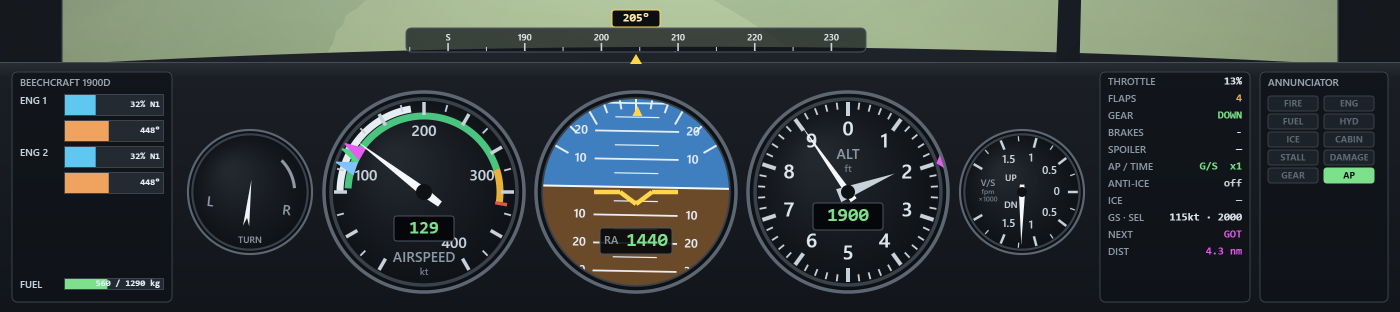
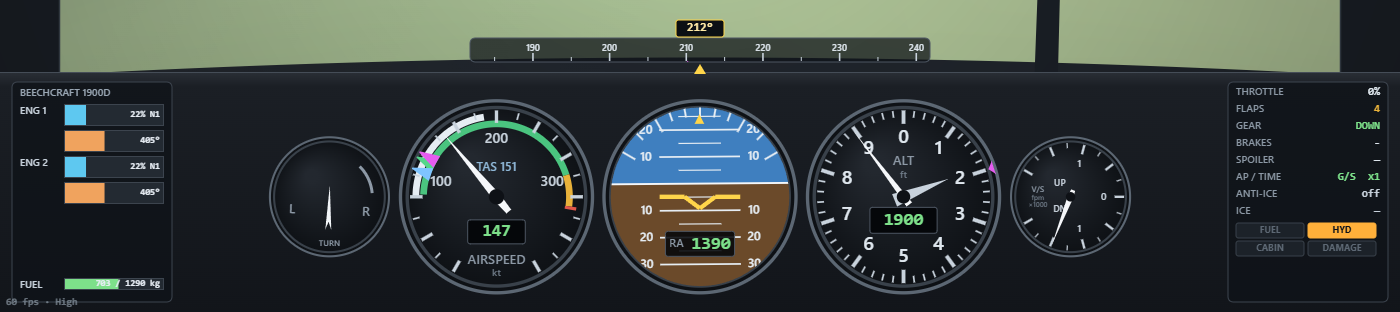
World Aviation: the terminal signs at the airports whose sign style had no typeface (a hash over 2^31 went negative); the wing engines' pylons sit on the cowling, end just past the exhaust and stay inside the wing; the annunciator column gone, its four lights no other gauge shows (FUEL, HYD, CABIN, 

diff --git a/world-aviation/ui/instruments.js b/world-aviation/ui/instruments.js
@@ -42,12 +42,12 @@ const Instruments = {
     ctx.lineWidth = 1;
     ctx.beginPath(); ctx.moveTo(0, top + 0.5); ctx.lineTo(w, top + 0.5); ctx.stroke();
 
-    // blocks: engines on the left, configuration and warnings on the right,
-    // the round gauges in a row in the space between
+    // blocks: engines on the left, the configuration (with the caution lights under it) on the
+    // right, the round gauges in a row in the space between
     const y = top + panelH * 0.52;
     if (!compact) {
-      const engW = 160, warnW = 128, cfgW = 150;
-      const warnX = w - 12 - warnW, cfgX = warnX - 10 - cfgW;
+      const engW = 160, cfgW = 160;
+      const cfgX = w - 12 - cfgW;
       const c0 = 12 + engW + 10, c1 = cfgX - 10;
       const cx = (c0 + c1) / 2;
       const r = Math.min(panelH * 0.4, (c1 - c0) / 8.96, 100);
@@ -58,7 +58,6 @@ const Instruments = {
       this.vsi(ctx, cx + 3.86 * r, y, r * 0.62, fl);
       this.engines(ctx, 12, top + 10, engW, panelH - 20, fl, sys);
       this.config(ctx, cfgX, top + 10, cfgW, panelH - 20, fl, sys);
-      this.warnings(ctx, warnX, top + 10, warnW, panelH - 20, sys, fl);
       this.hsi(ctx, cx, top - 22, Math.min(w * 0.5, 460), 24, fl, sys);
     } else if (Cockpit.portrait(w, h)) {
       // a phone held upright: the configuration on one line, the four gauges two by two, and
@@ -648,7 +647,9 @@ const Instruments = {
     ctx.fillStyle = 'rgba(14,18,24,0.72)';
     roundRect(ctx, x, y, w, h, 6); ctx.fill();
     ctx.strokeStyle = '#3c444e'; ctx.stroke();
-    const step = phone ? 22 : 17;
+    // (on a computer the caution lights follow the lines; in a low panel the lines close up)
+    const step = phone ? 22 : Math.min(17, (h - 8 - this.CAUTION_H - 22) / 7);
+    const lightsY = y + 10 + 7 * step + 12;
     const line = (i, label, value, color) => {
       const yy = y + (phone ? 14 : 10) + i * step;
       if (yy > y + h - 8) return;
@@ -678,50 +679,35 @@ const Instruments = {
     line(6, 'ANTI-ICE', sys && sys.antiIce ? 'ON' : 'off', sys && sys.antiIce ? '#7fc4ff' : '#c8d2dc');
     line(7, 'ICE', fl.env.iceAmount > 0.02 ? Math.round(fl.env.iceAmount * 100) + '%' : '—',
       fl.env.iceAmount > 0.2 ? '#ff7a5c' : fl.env.iceAmount > 0.02 ? '#e8b13a' : '#c8d2dc');
-    if (h > 150) {
-      line(8, 'GS · SEL', Units.spd(fl.groundSpeedKt()).replace(' ', '') + ' · ' + Units.alt(fl.ap.alt).replace(/ (ft|m)$/, ''), '#dfe7ee');
-      line(9, 'NEXT', fl.targetName(), '#e65cf0');
-      line(10, 'DIST', fl.st.onGround ? '-' : Units.dist(fl.targetDistNm(), 1), '#e65cf0');
-    }
+    if (sys) this.cautions(ctx, x + 8, lightsY, w - 16, sys);
     ctx.restore();
   },
 
-  // ---------- warning lights ----------
-  warnings(ctx, x, y, w, h, sys, fl) {
-    ctx.save();
-    ctx.fillStyle = 'rgba(14,18,24,0.72)';
-    roundRect(ctx, x, y, w, h, 6); ctx.fill();
-    ctx.strokeStyle = '#3c444e'; ctx.stroke();
-    ctx.fillStyle = '#9aa7b4';
-    ctx.font = '600 10px system-ui, sans-serif';
-    ctx.textAlign = 'left'; ctx.textBaseline = 'top';
-    ctx.fillText('ANNUNCIATOR', x + 8, y + 6);
+  // ---------- the caution lights ----------
+  // Under the configuration lines, two by two: only what no other instrument shows. A fire and
+  // a failed engine are on the engine gauges (FIRE, FAIL), the ice, the gear and the autopilot
+  // are lines of the configuration, a stall is the STALL warning on the view.
+  CAUTION_H: 33,
+  cautions(ctx, x, y, w, sys) {
+    const W = sys.warnings;
     const lights = [
-      ['FIRE', sys.warnings.fire, '#ff4d3d'],
-      ['ENG', sys.warnings.engine, '#ffb03a'],
-      ['FUEL', sys.warnings.fuelLeak || sys.warnings.fuelLow, '#ffb03a'],
-      ['HYD', sys.warnings.hydraulic, '#ffb03a'],
-      ['ICE', sys.warnings.ice, '#7fc4ff'],
-      ['CABIN', sys.warnings.cabin, '#ffb03a'],
-      ['STALL', sys.warnings.stall, '#ff4d3d'],
-      ['DAMAGE', sys.warnings.damage, '#ffb03a'],
-      ['GEAR', sys.warnings.gear || (fl.st.gear < 1 && fl.st.gear > 0), '#ffb03a'],
-      ['AP', fl.ap.on, '#7de08a']
+      ['FUEL', W.fuelLeak || W.fuelLow],
+      ['HYD', W.hydraulic],
+      ['CABIN', W.cabin],
+      ['DAMAGE', W.damage]
     ];
-    const cols = 2, cw = (w - 16) / cols, ch = 15;
-    for (let i = 0; i < lights.length; i++) {
-      const [label, on, color] = lights[i];
-      const lx = x + 8 + (i % cols) * cw, ly = y + 24 + Math.floor(i / cols) * (ch + 3);
-      ctx.fillStyle = on ? color : '#1c2229';
-      roundRect(ctx, lx, ly, cw - 6, ch, 3); ctx.fill();
-      ctx.strokeStyle = on ? color : '#39414a';
+    const cw = w / 2, ch = 15;
+    ctx.font = '700 9px system-ui, sans-serif';
+    ctx.textAlign = 'center'; ctx.textBaseline = 'middle';
+    lights.forEach(([label, on], i) => {
+      const lx = x + (i % 2) * cw, ly = y + Math.floor(i / 2) * (ch + 3);
+      ctx.fillStyle = on ? '#ffb03a' : '#1c2229';
+      roundRect(ctx, lx, ly, cw - 4, ch, 3); ctx.fill();
+      ctx.strokeStyle = on ? '#ffb03a' : '#39414a';
       ctx.stroke();
       ctx.fillStyle = on ? '#10141a' : '#5d6874';
-      ctx.font = '700 9px system-ui, sans-serif';
-      ctx.textAlign = 'center'; ctx.textBaseline = 'middle';
-      ctx.fillText(label, lx + (cw - 6) / 2, ly + ch / 2 + 0.5);
-    }
-    ctx.restore();
+      ctx.fillText(label, lx + (cw - 4) / 2, ly + ch / 2 + 0.5);
+    });
   }
 };
 

diff --git a/world-aviation/render/airport3d.js b/world-aviation/render/airport3d.js
@@ -1036,15 +1036,17 @@ function makeRunwayCanvas(a, ch) {
 const SIGN_FONTS = ['Arial, sans-serif', '"Trebuchet MS", sans-serif', 'Verdana, sans-serif', 'Georgia, serif',
   'Tahoma, sans-serif', '"Segoe UI", sans-serif', '"Gill Sans", "Gill Sans MT", Calibri, sans-serif', '"Century Gothic", Futura, sans-serif'];
 function signStyle(a, id) {
+  // (unsigned shifts: `>>` turned a hash over 2^31 negative, the index too, so there was no
+  // typeface and the canvas fell back to 10 px text — blank signs at those airports)
   const h = hashStr(a.id + 'signs');
   const hsl = {};
   new THREE.Color(id.color).getHSL(hsl);
-  const hue = (hsl.h + ((h % 7) - 3) * 0.012 + 1) % 1, sat = clamp(hsl.s * (0.8 + (h >> 3) % 5 * 0.08), 0.25, 0.9);
-  const light = clamp(0.24 + ((h >> 6) % 6) * 0.03, 0.2, 0.42);
+  const hue = (hsl.h + ((h % 7) - 3) * 0.012 + 1) % 1, sat = clamp(hsl.s * (0.8 + (h >>> 3) % 5 * 0.08), 0.25, 0.9);
+  const light = clamp(0.24 + ((h >>> 6) % 6) * 0.03, 0.2, 0.42);
   const css = (l) => '#' + new THREE.Color().setHSL(hue, sat, l).getHexString();
   return {
-    font: SIGN_FONTS[(h >> 9) % SIGN_FONTS.length], weight: ['700', '800', '900'][(h >> 12) % 3],
-    bg: css(light), dark: css(light * 0.6), fg: (h >> 14) % 3 ? '#ffffff' : '#ffe9a8'
+    font: SIGN_FONTS[(h >>> 9) % SIGN_FONTS.length], weight: ['700', '800', '900'][(h >>> 12) % 3],
+    bg: css(light), dark: css(light * 0.6), fg: (h >>> 14) % 3 ? '#ffffff' : '#ffe9a8'
   };
 }
 

diff --git a/world-aviation/render/models.js b/world-aviation/render/models.js
@@ -164,8 +164,15 @@ const AircraftModels = {
         const n = jetNacelle(dia, dia * (look.engines === 'wing4' ? 2.0 : 1.75), eng, dark, paint, look.flatNacelles);
         n.position.set(side * spanAt(f), ny, nz);
         g.add(n);
-        const py = new THREE.Mesh(new THREE.BoxGeometry(dia * 0.14, dia * 0.5, dia * 1.6), metal);
-        py.position.set(side * spanAt(f), ny + dia * 0.44, nz - dia * 0.65);
+        // the pylon sits on top of the cowling (its foot just inside the cowl, which narrows to
+        // 0.42 of the fan at the back), from near the intake to a little past the exhaust: lower,
+        // it hung into the exhaust and showed as a box through the back of the engine
+        // (its top at the wing's middle: a big fan pulled up to the wing put it through the top
+        // of the wing)
+        const foot = ny + dia * ((look.flatNacelles ? 0.86 : 1) * 0.42 - 0.03);
+        const head = Math.max(foot + dia * 0.12, Math.min(ny + dia * 0.72, yAt(f)));
+        const py = new THREE.Mesh(new THREE.BoxGeometry(dia * 0.14, head - foot, dia * 1.35), metal);
+        py.position.set(side * spanAt(f), (head + foot) / 2, nz - dia * 0.575);
         g.add(py);
       }
     } else if (look.engines === 'rear2') {

diff --git a/world-aviation/index.html b/world-aviation/index.html
@@ -133,15 +133,15 @@
 <script src="art/landmarks.js?v=2"></script>
 <script src="art/emblems.js?v=1"></script>
 <script src="art/regionmaps.js?v=2"></script>
-<script src="render/models.js?v=10"></script>
+<script src="render/models.js?v=11"></script>
 <script src="render/preview3d.js?v=2"></script>
-<script src="render/airport3d.js?v=12"></script>
+<script src="render/airport3d.js?v=13"></script>
 <script src="render/apron3d.js?v=5"></script>
 <script src="render/landside3d.js?v=3"></script>
 <script src="render/lights3d.js?v=1"></script>
 <script src="render/cinematic.js?v=1"></script>
 <script src="render/scene3d.js?v=18"></script>
-<script src="ui/instruments.js?v=13"></script>
+<script src="ui/instruments.js?v=14"></script>
 <script src="ui/cockpit.js?v=8"></script>
 <script src="ui/hud.js?v=26"></script>
 <script src="ui/cabin.js?v=2"></script>

diff --git a/world-aviation/README_RU.md b/world-aviation/README_RU.md
@@ -46,7 +46,7 @@
 
 ![Приборная панель на заходе](docs/panel.png)
 
-Панель на экране компьютера в 4 милях от Гётеборга на заходе: шасси и закрылки выпущены, автопилот ведёт по глиссаде. Слева направо: двигатели, указатель поворота, указатель скорости, авиагоризонт, высотомер, вариометр, блок конфигурации и табло сигнализации, над ними — шкала курса. Надписи на приборах английские, как в настоящей кабине. Панель остаётся на экране с любой камеры. На телефоне четыре главных прибора крупнее (если держать телефон вертикально — по два в ряд), а в блоке конфигурации остаются только закрылки, шасси, автопилот и обледенение (остальное подсвечивается на кнопках); если держать телефон горизонтально, вертикальная скорость показывается числом рядом с высотомером.
+Панель на экране компьютера в 4 милях от Гётеборга на заходе: шасси и закрылки выпущены, автопилот ведёт по глиссаде. Слева направо: двигатели, указатель поворота, указатель скорости, авиагоризонт, высотомер, вариометр и блок конфигурации с сигнальными лампами, над ними — шкала курса. Надписи на приборах английские, как в настоящей кабине. Панель остаётся на экране с любой камеры. На телефоне четыре главных прибора крупнее (если держать телефон вертикально — по два в ряд), а в блоке конфигурации остаются только закрылки, шасси, автопилот и обледенение (остальное подсвечивается на кнопках); если держать телефон горизонтально, вертикальная скорость показывается числом рядом с высотомером.
 
 | Прибор | Что показывает и чем помогает |
 |---|---|
@@ -57,8 +57,7 @@
 | <img src="docs/turn.png" width="140" alt="Указатель поворота"> | **Указатель поворота** (TURN) — маленький самолёт наклоняется тем сильнее, чем быстрее меняется курс: стоит прямо — летите прямо, чем больше наклон — тем круче разворот. На посадочной прямой держите его ровно, тогда самолёт не будет медленно уходить с осевой. |
 | <img src="docs/heading.png" width="260" alt="Шкала курса"> | **Шкала курса** над панелью: жёлтый треугольник и окошко — ваш курс. **Розовый треугольник** под шкалой — направление на следующую точку маршрута (на заходе — на полосу): доверните, пока он не встанет под жёлтый, и вы летите прямо на неё. В режиме HDG **голубая метка** сверху — курс, на который разворачивает автопилот (клавиши **;** и **'**). |
 | <img src="docs/engines.png" width="150" alt="Приборы двигателей"> | **Двигатели** — по две полосы на двигатель: **N1** (обороты вентилятора в %, то есть тяга; малый газ — около 22 %) и **EGT** (температура выходящих газов). При запуске следите, как растут N1 и EGT; в полёте полоса сразу пишет **FIRE** (пожар), **FAIL** (отказ) или **START** (запуск), и видно, с каким двигателем беда. Внизу — **остаток топлива** в килограммах из полных баков. |
-| <img src="docs/configuration.png" width="150" alt="Блок конфигурации"> | **Конфигурация** — всё, что вы выставили, словами: **THROTTLE** — режим двигателей в %; **FLAPS** — закрылки (жёлтые в посадочных положениях, «1>3», пока выпускаются); **GEAR** — шасси (зелёное DOWN — выпущено, жёлтое — в движении); **BRAKES** — тормоза (PARK — стояночный тормоз); **SPOILER** — интерцепторы (красное OUT — выпущены); **AP / TIME** — режим автопилота (NAV — по маршруту, HDG — по курсу, G/S — по глиссаде) и ускорение времени; **ANTI-ICE** — противообледенительная система; **ICE** — лёд на крыле в %; **GS · SEL** — путевая скорость и заданная высота автопилота; **NEXT** и **DIST** — следующая точка маршрута и расстояние до неё. Перед посадкой одного взгляда хватает: шасси DOWN зелёным, закрылки выпущены, интерцепторы убраны, стояночный тормоз снят. |
-| <img src="docs/annunciator.png" width="150" alt="Табло сигнализации"> | **Табло сигнализации** (ANNUNCIATOR): красные **FIRE** (пожар) и **STALL** (сваливание); жёлтые **ENG** (двигатель), **FUEL** (топливо), **HYD** (гидравлика), **CABIN** (давление в кабине), **DAMAGE** (повреждения) и **GEAR** (шасси, в том числе пока оно выпускается или убирается); голубое **ICE** (обледенение) и зелёное **AP**, пока летит автопилот. Когда звучит сигнал, одного взгляда хватает, чтобы понять, что случилось; тут же на экране открывается чек-лист QRH (см. «Отказы и аварийные ситуации»). На снимке — пожар двигателя. |
+| <img src="docs/configuration.png" width="150" alt="Блок конфигурации"> | **Конфигурация** — всё, что вы выставили, словами: **THROTTLE** — режим двигателей в %; **FLAPS** — закрылки (жёлтые в посадочных положениях, «1>3», пока выпускаются); **GEAR** — шасси (зелёное DOWN — выпущено, жёлтое — в движении); **BRAKES** — тормоза (PARK — стояночный тормоз); **SPOILER** — интерцепторы (красное OUT — выпущены); **AP / TIME** — режим автопилота (NAV — по маршруту, HDG — по курсу, G/S — по глиссаде) и ускорение времени; **ANTI-ICE** — противообледенительная система; **ICE** — лёд на крыле в %. Под ними четыре сигнальные лампы — то, чего не показывает ни один другой прибор: **FUEL** (утечка или мало топлива), **HYD** (гидравлика), **CABIN** (давление в кабине) и **DAMAGE** (повреждения), горят жёлтым; на снимке — отказ гидравлики. Когда звучит сигнал, тут же на экране открывается чек-лист QRH (см. «Отказы и аварийные ситуации»). Пожар или отказ двигателя видны на приборах двигателей, сваливание — надписью STALL на экране. Перед посадкой одного взгляда хватает: шасси DOWN зелёным, закрылки выпущены, интерцепторы убраны, стояночный тормоз снят. |
 | <img src="docs/ils.png" width="260" alt="Шкалы ILS"> | **ILS** — на снижении и на заходе (на компьютере справа, в стороне от обзора; на телефоне высоко на стекле). Жёлтые метки в центре — это вы. На шкале **ПОЛОСА** (RUNWAY) маленькая розовая полоса стоит там, где полоса; на шкале **ГЛИССАДА** (GLIDE PATH) голубой треугольник — там, где глиссада. Под ними словами сказано, что делать: здесь «полоса СПРАВА ▶ поворот вправо» и «ВЫШЕ ▼ снижайтесь быстрее», а когда всё точно — «НА ОСЕВОЙ И НА ГЛИССАДЕ». Летите к символам: полоса справа — доворачивайте вправо, треугольник ниже — снижайтесь быстрее. |
 | <img src="docs/approach-path.png" width="260" alt="Точки глиссады и указатель траектории"> | **Точки глиссады и указатель траектории.** В небе — **розовая точка** на каждой морской миле продолжения осевой, на высоте глиссады 3°, до самой полосы с её номером; летите по линии точек, и вы на ILS (на снимке самолёт правее линии и выше). **Зелёный кружок** (только из кабины) — указатель траектории: куда самолёт летит на самом деле, с учётом ветра и снижения. Поставьте его на торец полосы и держите там — туда самолёт и придёт. |
 

diff --git a/world-aviation/README.md b/world-aviation/README.md
@@ -46,7 +46,7 @@ The controls work in any keyboard layout (the keys are read by their place on th
 
 ![The instrument panel on the approach](docs/panel.png)
 
-The panel on a computer screen, 4 nm out on the approach to Gothenburg with the gear and the flaps down and the autopilot on the glideslope. From the left: the engines, the turn coordinator, the airspeed, the attitude indicator, the altimeter, the vertical speed, the configuration block and the annunciator, with the heading strip above them. The panel stays on screen in every camera view. On a phone the four main gauges are bigger (held upright they sit two by two) and the configuration block keeps only the flaps, the gear, the autopilot and the ice (the rest is lit on the buttons); held on its side, the climb rate is a number next to the altimeter.
+The panel on a computer screen, 4 nm out on the approach to Gothenburg with the gear and the flaps down and the autopilot on the glideslope. From the left: the engines, the turn coordinator, the airspeed, the attitude indicator, the altimeter, the vertical speed and the configuration block with the caution lights, with the heading strip above them. The panel stays on screen in every camera view. On a phone the four main gauges are bigger (held upright they sit two by two) and the configuration block keeps only the flaps, the gear, the autopilot and the ice (the rest is lit on the buttons); held on its side, the climb rate is a number next to the altimeter.
 
 | Instrument | What it shows and how it helps |
 |---|---|
@@ -57,8 +57,7 @@ The panel on a computer screen, 4 nm out on the approach to Gothenburg with the 
 | <img src="docs/turn.png" width="140" alt="Turn coordinator"> | **Turn coordinator** — the little aeroplane leans as far as the heading is changing: upright, you fly straight; the more it leans, the faster you turn. On the final keep it upright, so that you do not slowly drift off the centreline. |
 | <img src="docs/heading.png" width="260" alt="Heading strip"> | **Heading strip** — the compass over the panel: the yellow triangle and the box are your heading. The **magenta triangle** under the strip is the bearing to the next point of the route (the runway on the approach) — turn until it sits under the yellow one and you are flying straight at it. In HDG mode a **blue mark** on top is the heading the autopilot is turning to (**;** and **'**). |
 | <img src="docs/engines.png" width="150" alt="Engine gauges"> | **Engines** — two bars per engine: **N1** (the fan speed in %, that is the thrust; idle is about 22 %) and **EGT** (the exhaust temperature). During the start watch N1 and EGT come up; in flight the bar says **FIRE**, **FAIL** or **START** at once, so you know which engine has the problem. At the bottom: the **fuel** left, in kg out of the full tanks. |
-| <img src="docs/configuration.png" width="150" alt="Configuration block"> | **Configuration** — the state of everything you set, in words: **THROTTLE** in %, **FLAPS** (amber at the landing settings, "1>3" while they move), **GEAR** (green DOWN, amber while it travels), **BRAKES** (PARK — the parking brake is set), **SPOILER** (red OUT), **AP / TIME** (the autopilot mode — NAV along the route, HDG on a heading, G/S on the glideslope — and the time acceleration), **ANTI-ICE**, **ICE** on the wings in %, **GS · SEL** (the ground speed and the altitude selected for the autopilot), **NEXT** and **DIST** (the next point of the route and how far it is). Before the landing one look says it all: gear DOWN in green, flaps set, spoiler in, parking brake off. |
-| <img src="docs/annunciator.png" width="150" alt="Annunciator panel"> | **Annunciator** — the warning lights: **FIRE** and **STALL** in red, **ENG**, **FUEL**, **HYD** (hydraulics), **CABIN** (pressure), **DAMAGE** and **GEAR** (also while the gear travels) in amber, **ICE** in blue, and **AP** in green while the autopilot flies. When the caution chimes, one look tells you what is wrong; the QRH checklist opens on the screen at the same time (see Emergencies). Here: an engine fire. |
+| <img src="docs/configuration.png" width="150" alt="Configuration block"> | **Configuration** — the state of everything you set, in words: **THROTTLE** in %, **FLAPS** (amber at the landing settings, "1>3" while they move), **GEAR** (green DOWN, amber while it travels), **BRAKES** (PARK — the parking brake is set), **SPOILER** (red OUT), **AP / TIME** (the autopilot mode — NAV along the route, HDG on a heading, G/S on the glideslope — and the time acceleration), **ANTI-ICE**, **ICE** on the wings in %. Under them four caution lights for what no other instrument shows: **FUEL** (a leak or low fuel), **HYD** (hydraulics), **CABIN** (pressure) and **DAMAGE**, in amber when lit — here a hydraulic failure; when the caution chimes the QRH checklist opens on the screen at the same time (see Emergencies). A fire or a failed engine shows on the engine gauges, a stall as STALL on the view. Before the landing one look says it all: gear DOWN in green, flaps set, spoiler in, parking brake off. |
 | <img src="docs/ils.png" width="260" alt="ILS scales"> | **ILS** — on the descent and the approach (on a computer on the right, off the view ahead; on a phone high on the windscreen). The yellow marks in the middle are you. On the **RUNWAY** scale the little magenta runway sits where the runway is; on the **GLIDE PATH** scale the cyan triangle sits where the glide path is. Plain words under them say what to do — here "runway to the RIGHT ▶ turn right" and "HIGH ▼ descend more"; when both are right they say "ON THE CENTRELINE AND THE GLIDE PATH". Fly towards the symbols: the runway to the right means turn right, the triangle below means descend more. |
 | <img src="docs/approach-path.png" width="260" alt="Glide path dots and the flight path marker"> | **Glide path dots and the flight path marker** — in the sky, a **magenta dot** every nautical mile on the extended centreline, at the height of the 3° glide path, down to the runway and its number; fly down the line of dots and you are on the ILS (here the aeroplane is right of the line and high). The **green circle** (cockpit view only) is the flight path marker: where the aeroplane is actually going, with the wind and the descent. Put it on the runway threshold and keep it there, and the aeroplane arrives at the threshold. |
 

diff --git a/world-aviation/SPEC.md b/world-aviation/SPEC.md
@@ -292,6 +292,8 @@ Updates: a page left open (above all the installed Android app, resumed from the
 
 **The cockpit inset.** On the ground, in any view but the cockpit, the pilot's view is drawn in a frame where the mini map goes (a large desktop window; on a tablet under the buttons; not on a phone), so the aeroplane can be taxied watched from outside without losing the way ahead: `HUD.updatePip` shows the frame and hands its rectangle to `Scene3D.renderPip`, which draws the scene again into that rectangle of the canvas (scissor) through a camera at the pilot's eye (`Scene3D.cockpitPose`, the cockpit view's), the own aeroplane hidden. It goes when the aeroplane lifts off (the mini map comes back if it is on) and while the big map, the help or a checklist is open. The taxi guidance arrow is over the windshield in the cockpit and centred just above the heading strip in the views from outside, under the aeroplane, so it never covers it.
 
+**The panel on a computer.** From the left: the engines (N1, EGT and FIRE / FAIL / START on each engine's bar, the fuel), the turn coordinator, the airspeed, the attitude (with the radio altitude), the altimeter, the VSI, and on the right the configuration block (`Instruments.config`: throttle, flaps, gear, brakes, spoiler, the autopilot mode and the time acceleration, anti-ice, ice) with four caution lights two by two under its lines (`Instruments.cautions`: FUEL — a leak or low fuel, HYD, CABIN, DAMAGE, amber when lit) — only what no other instrument shows: a fire and a failed engine are on the engine bars, the ice, the gear and the autopilot are lines of the block, a stall is the STALL warning on the view. In a low panel the lines close up so the lights fit; a small window on a computer has them too.
+
 **The panel on a phone.** On its side it keeps the airspeed, the attitude (with the radio altitude) and the altimeter in a row, the climb rate as a number next to the altimeter (V/S) instead of the VSI, and a configuration block of four lines: flaps, gear, autopilot mode and time acceleration, ice (`Instruments.phoneConfig`); the throttle is on the slider, the brakes, spoiler, anti-ice and autopilot on their lit buttons, the next waypoint on the map. The right 78 px (`PHONE_THROTTLE_W`) are the slider's. Held upright the panel is taller (42 % of the screen, at most 360 px) and has the configuration on one line across the top and the airspeed, attitude, altimeter and VSI two by two under it, as big as the width left of the slider allows. A small window on a computer keeps the compact layout with the VSI and the full configuration block.
 
 **The camera's flights** (`render/cinematic.js`, `CINEMATIC` in `constants.js`). Every flight but a practice landing begins with a wide shot and the camera flying into the captain's seat (6.5 s): at the gate from behind and above the aeroplane, off to its left, the terminal ahead of it; at the runway the same, the runway across the picture ahead. It sweeps in behind the aeroplane, over the tail fin and along the roof, and drops into the seat; the last 0.65 s it is inside, the own aeroplane hidden, while the cockpit frame and the panel fade in. Parked at the arrival gate (`PARKED`, engines stopped) it flies the same way out to the right — out of the seat, over the fin, back and up to a wide shot of the aeroplane at its gate and the terminal (5.5 s), holds it 1.2 s — and the debrief follows; a pilot who parked watching from outside starts it at the roof, not in the seat. The path is a spline through five keys in the aeroplane's own axes, scaled to its length, span and fuselage (the wide shot 1.9 × the larger of the length and the span + 50 m out, 40° off the tail), the times of the keys part of the spline (a non-uniform Catmull-Rom, still at both ends), so it eases in and out without a jerk; the field of view opens from 50° to the cockpit's 68°. Meanwhile the aeroplane stands still (no simulation, no deadline, no cabin announcement; the tower's clearance at the runway waits for the cockpit), the HUD is hidden, black letterbox bars slide in while the camera is outside, the intro fades in from black with the route under the picture (the cities with their flags, the client and the type) and the outro names the arrival and the gate; the sound is heard from outside, as in the outside views. Enter, Space, Esc or a tap anywhere skips it (the outro on the next frame, so the key does not also press a button of the debrief); a cheat ends the intro.
@@ -393,7 +395,7 @@ world-aviation/
 - The English text stays in the code and is the key: `tr('Taxi to {gate}', { gate })` (`core/i18n.js`) looks it up in `TEXT_RU` / `TEXT_SV` (`data/lang-ru.js`, `data/lang-sv.js`) and fills in the `{name}` values; a text with no entry is shown in English. Data tables (aircraft, regions, emergencies…) stay English and are passed through `tr()` where they are shown.
 - The units stay as they are in every language (`ft`, `kt`, `nm`, `fpm`, `kg`), so `Units.text` still converts them, and so do the keys in `<kbd>` (on a touch screen the prompts and the messages swap them for the button names, in the same language: Space → Park, Y → AP, T → Time +, …; a message names its key in `<kbd>` too, never as a bare letter).
 - The career log and the invoice keep the English template and its values (`logLine` in `career.js`), so they are shown in the language of the day; old saves show their English text.
-- Stay English on purpose: the airport, city and airline names, the instruments and annunciator labels (as in a real cockpit) and the debug cheat banners.
+- Stay English on purpose: the airport, city and airline names, the instruments and caution light labels (as in a real cockpit) and the debug cheat banners.
 - Adding a text: write it in English through `tr()`, add the same key to both tables. The check: every key used in the code and the data has an entry in both tables, with the same `{params}`.
 
 ## HUD layout
